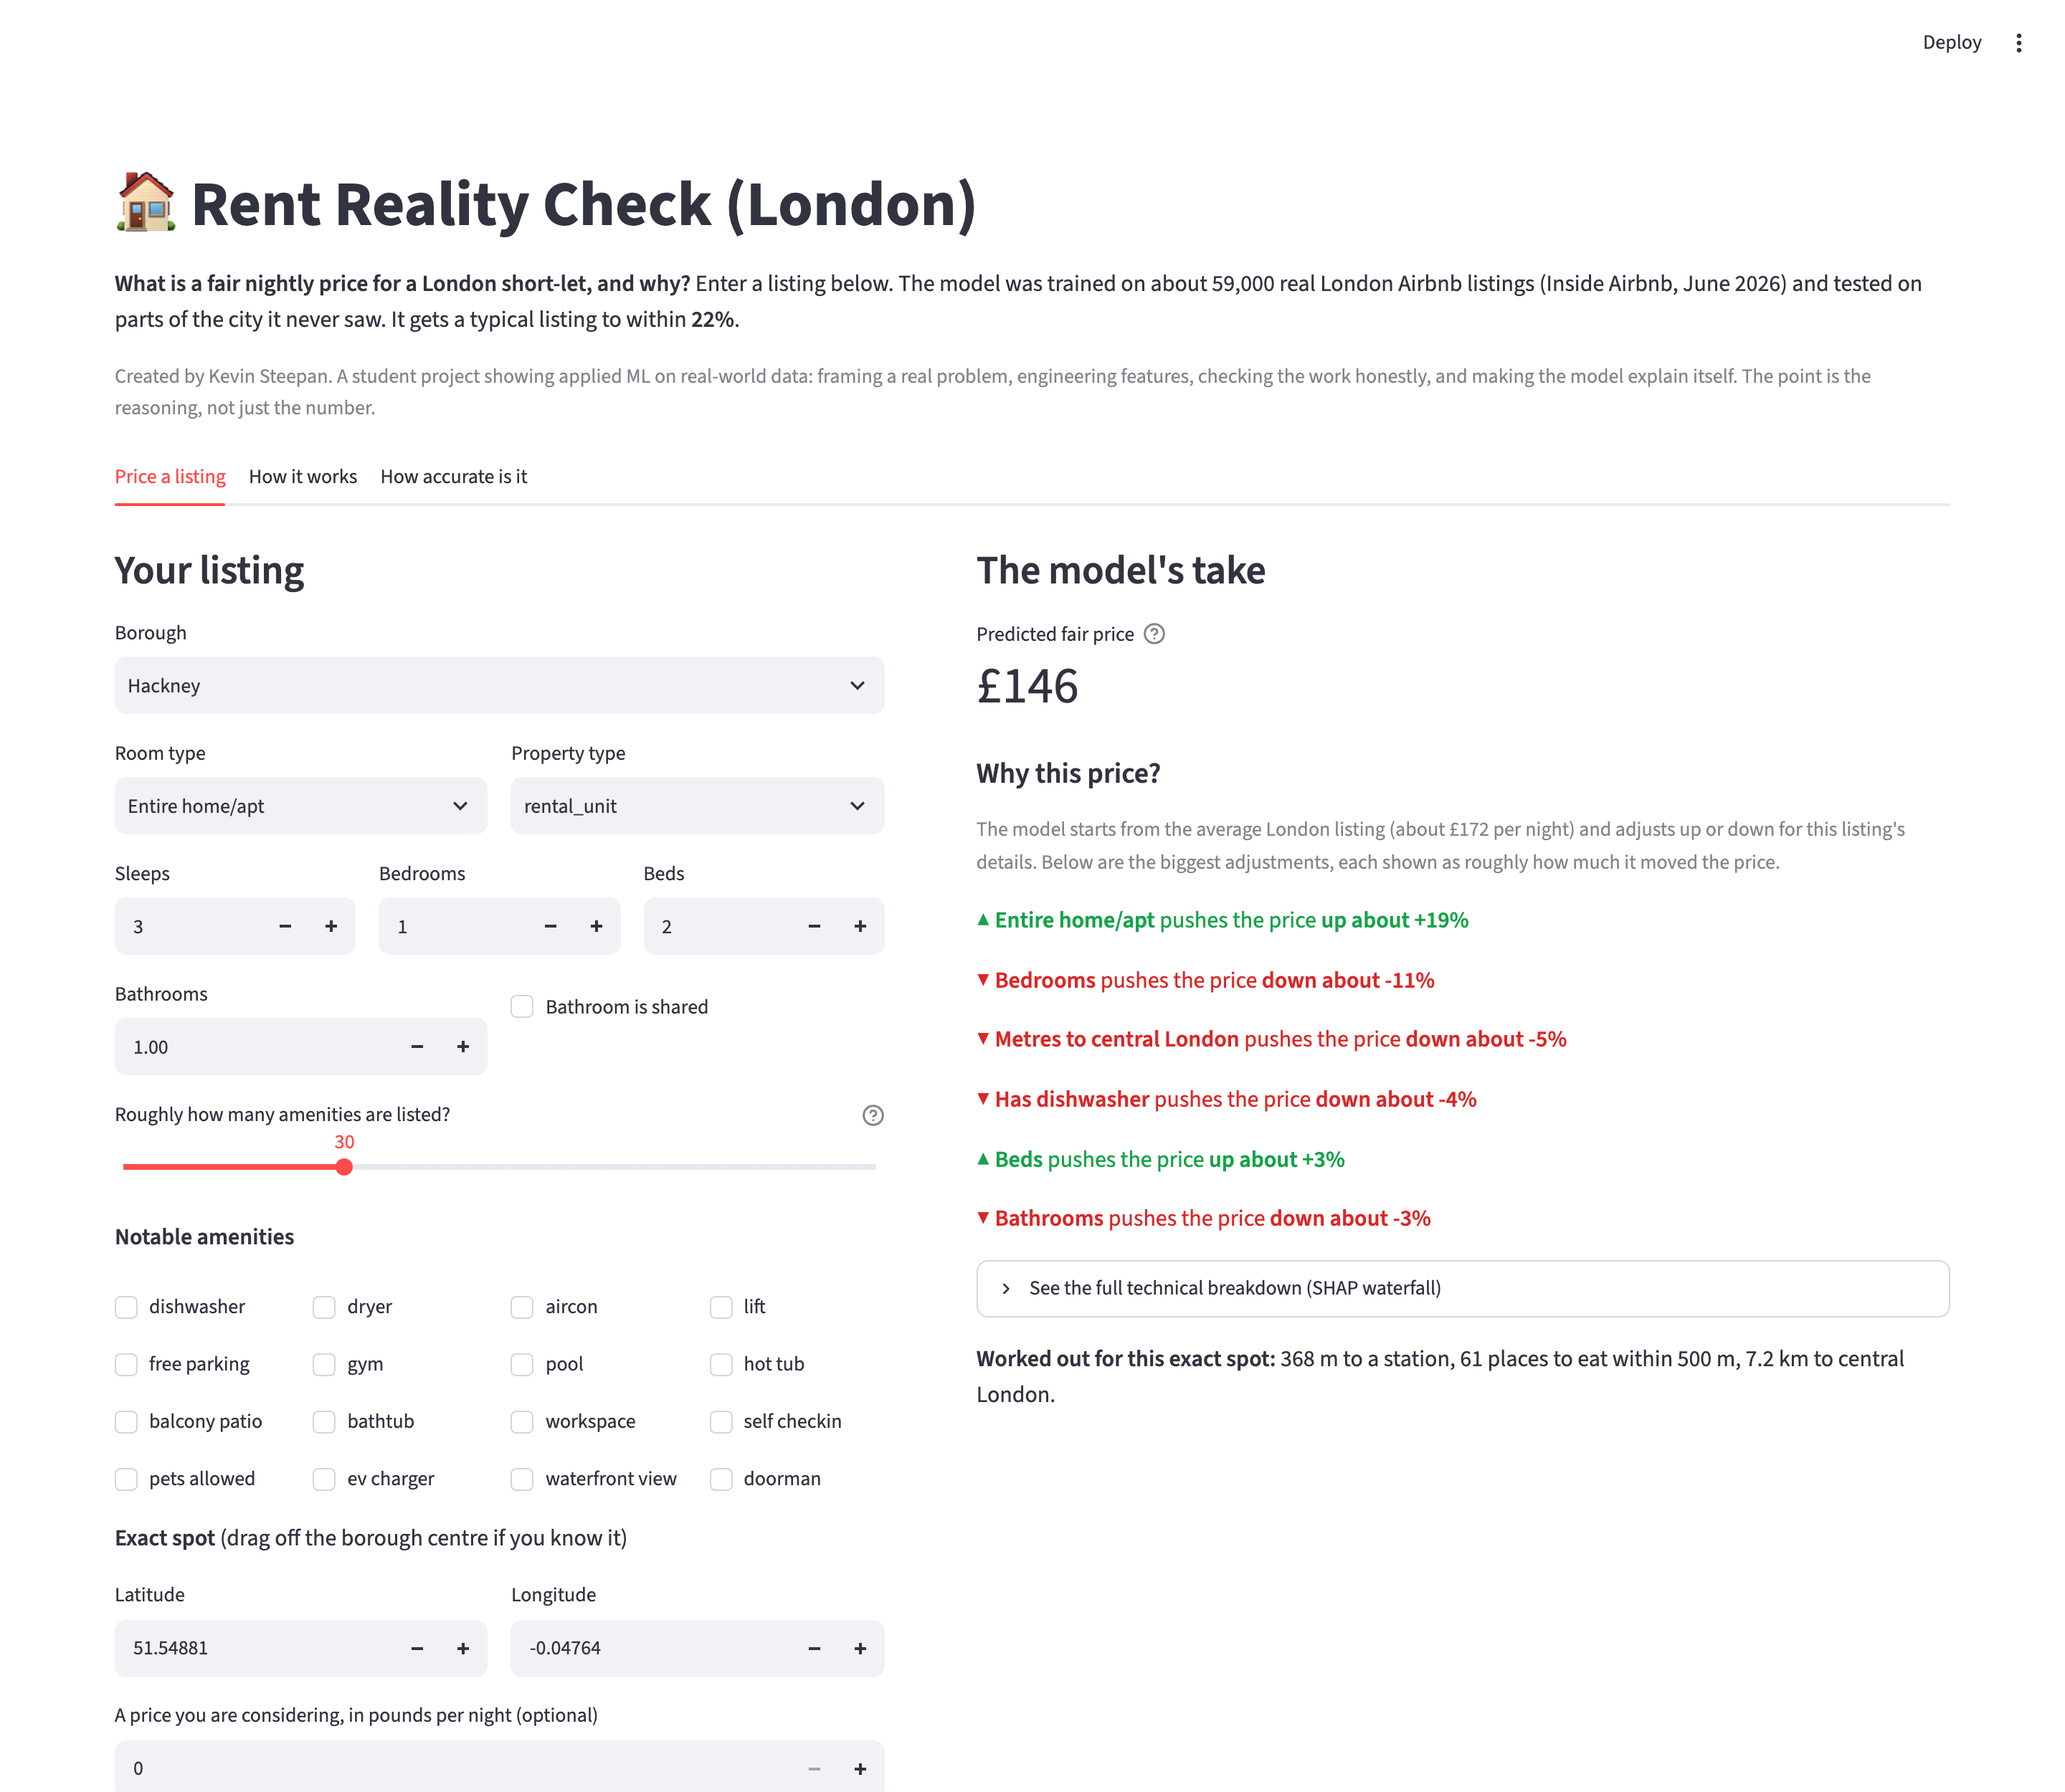
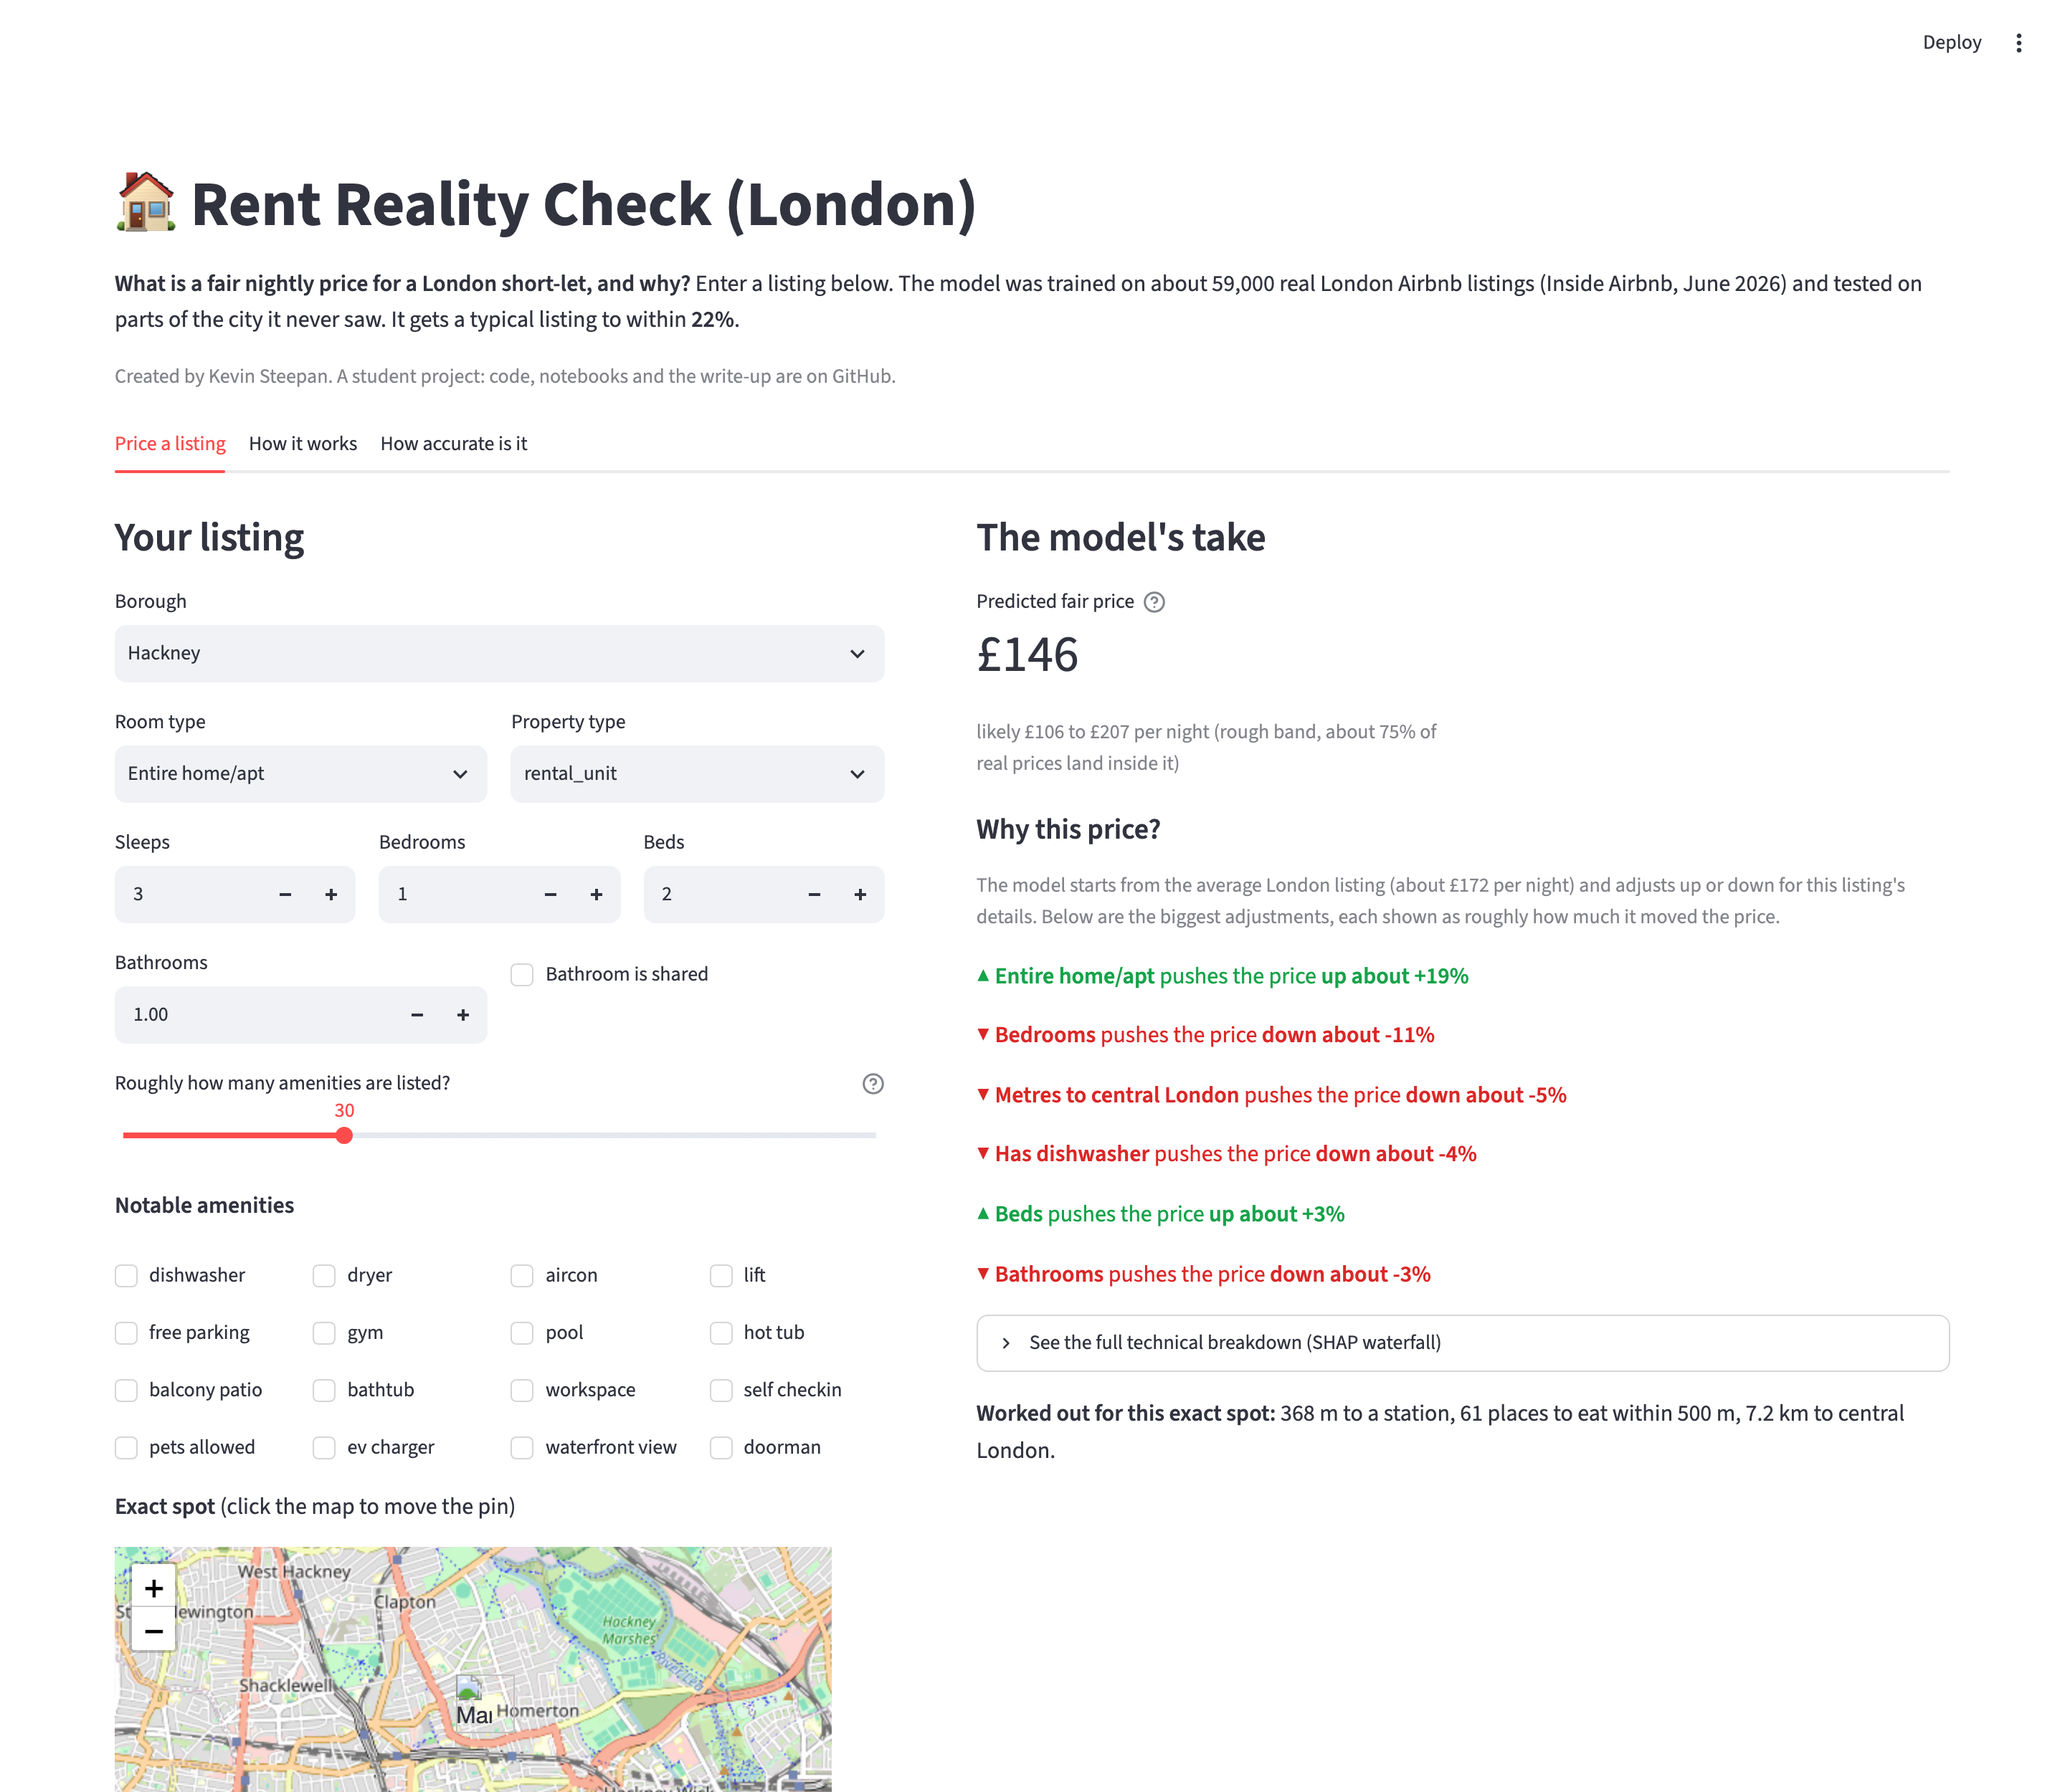
Use keyless OpenStreetMap tiles for the app map, refresh the screenshot
cartodb tiles started returning 'API key required'. Switched to plain
OpenStreetMap tiles, which need no key. docs/app.png regenerated.

diff --git a/app/streamlit_app.py b/app/streamlit_app.py
@@ -144,7 +144,8 @@ with tab_price:
             st.session_state[key] = (float(d["lat"]), float(d["lon"]))
         cur_lat, cur_lon = st.session_state[key]
 
-        fmap = folium.Map(location=[cur_lat, cur_lon], zoom_start=13, tiles="cartodbpositron")
+        # plain OpenStreetMap tiles: no API key needed (cartodb tiles now require one)
+        fmap = folium.Map(location=[cur_lat, cur_lon], zoom_start=13, tiles="OpenStreetMap")
         folium.Marker([cur_lat, cur_lon], tooltip="this listing").add_to(fmap)
         clicked = st_folium(
             fmap,
